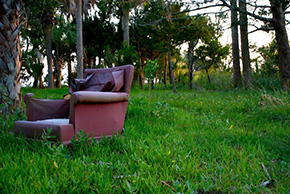
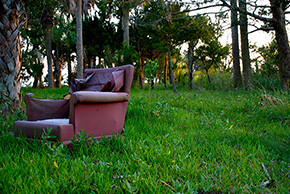
Updated all images to support HiDPI goodness

diff --git a/examples/index.html b/examples/index.html
@@ -10,7 +10,11 @@ section: examples
   <h3>Interactive Example</h3>
   <p>Choose a filter and move the slider to see it in action. This is only a sample of the full power of CamanJS.</p>
 
-  <img id="example" src="/images/example1_600.jpg">
+  <img
+    id="example" 
+    src="/images/example1_600.jpg"
+    data-caman-hidpi="/images/example1_1200.jpg"
+  >
 
   <div id="Filters">
   {% for filter in site.filters %}
@@ -39,7 +43,11 @@ section: examples
   <h3>Preset Examples</h3>
   <p>CamanJS has a number of preset filters that show off how to generate consistent effects on many types of images.</p>
 
-  <img id="preset-example" src="/images/example2_600.jpg">
+  <img 
+    id="preset-example" 
+    src="/images/example2_600.jpg"
+    data-caman-hidpi="/images/example2_1200.jpg"
+  >
 
   <div id="PresetFilters">
   {% for preset in site.caman_presets %}

diff --git a/index.html b/index.html
@@ -32,19 +32,25 @@ section: home
   {% highlight html %}
   <img 
     data-caman="brightness(10) contrast(30) sepia(60) saturation(-30)"
+    data-caman-hidpi="/path/to/image@2x.jpg"
     src="path/to/image.jpg"
   >
   {% endhighlight %}
 
   <div id="HomeExamples">
     <div class="Left">
-      <img src="/images/example1_290.jpg">
+      <img 
+        src="/images/example1_290.jpg"
+        data-caman=""
+        data-caman-hidpi="/images/example1_580.jpg"
+      >
       <p>Before</p>
     </div>
     <div class="Right">
       <img 
         src="/images/example1_290.jpg"
         data-caman="brightness(10) contrast(30) sepia(60) saturation(-30)"
+        data-caman-hidpi="/images/example1_580.jpg"
       >
       <p>After</p>
     </div>

diff --git a/_layouts/main.html b/_layouts/main.html
@@ -13,13 +13,19 @@
   <link href='http://fonts.googleapis.com/css?family=Source+Code+Pro|Raleway:400,200,700' rel='stylesheet' type='text/css'>
 
   {% bundle %}
-    - //cdnjs.cloudflare.com/ajax/libs/camanjs/{{site.caman.cdn_version}}/caman.full.min.js
+    - //raw.github.com/meltingice/CamanJS/master/dist/caman.full.js
     - //ajax.googleapis.com/ajax/libs/jquery/1.8.3/jquery.min.js
     - /javascripts/ext/html5slider.js
     - /javascripts/ext/underscore.js
   {% endbundle %}
 
   <script src="/javascripts/{{page.section}}.js"></script>
+
+  {% if site.dev or site.server %}
+  <script type="text/javascript">
+    Caman.DEBUG = true
+  </script>
+  {% endif %}
 </head>
 <body>
   {{ content }}
